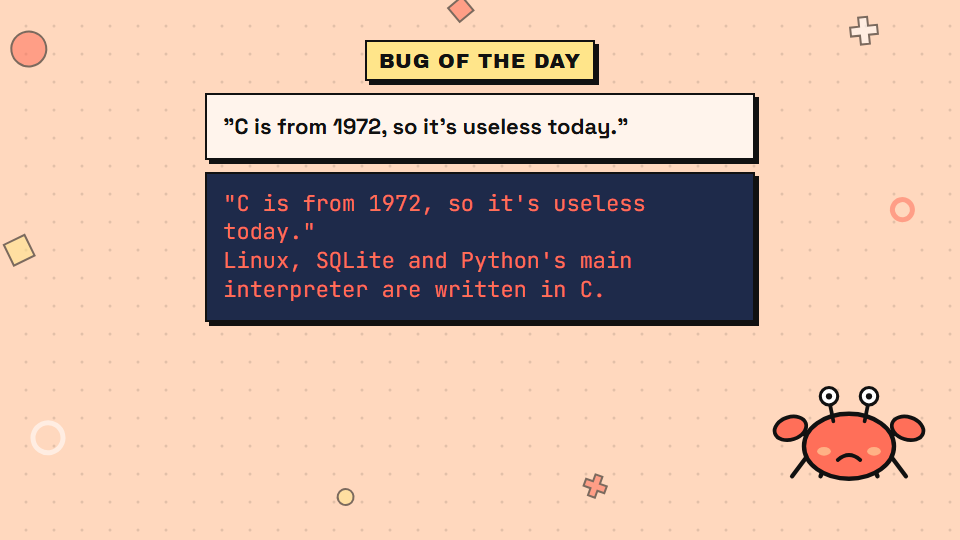
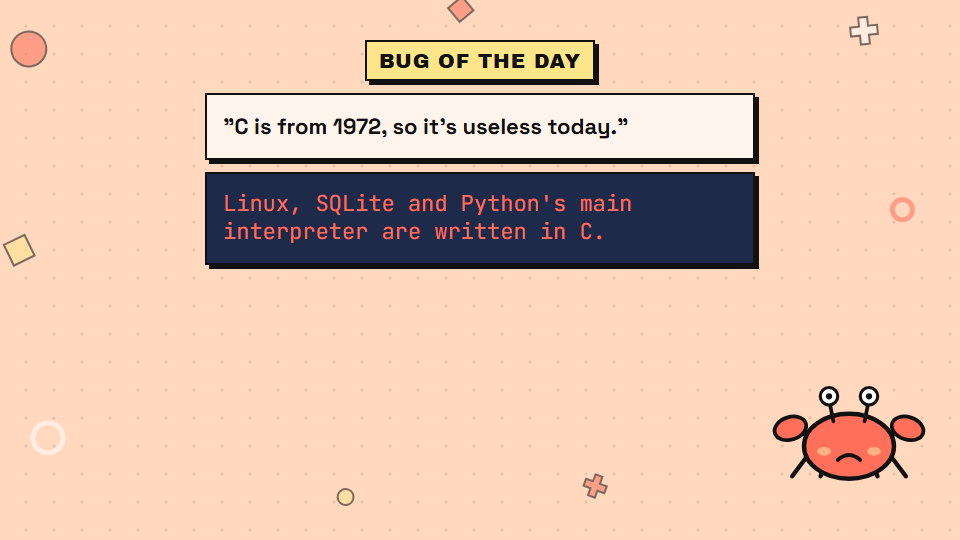
docs: fix4 report section 13 (bug code window vs culprit line, report only) and the EP2 still

Changed region(s): [[0.1875, 0.4741, 0.8125, 0.6222], [0.2188, 0.3556, 0.6875, 0.4444]]

diff --git a/docs/fix4-report.md b/docs/fix4-report.md
@@ -231,7 +231,7 @@ Nothing was re-rendered. Which episodes pick this up is for you to say. Takeover
 | Rule | Shows | Episodes that use it |
 |---|---|---|
 | diagnostic | the `file:line:col: error/warning: text` line + the echoed source line (a bare heading like "GCC error:" no longer counts) | EP1, 4, 6–12, 15, 20, 22–24, 28, 34–37, 39, 44, 46, 49, 51–58, 60–63, 68, 77, 81, 82, 86 (EP36 changed) |
-| myth | a quoted claim + the first numbered proof | EP2 (changed) |
+| myth | the first numbered proof; the quoted claim is added above it only if the code card does not already show it (compared after normalising quotes) | EP2 (changed) |
 | output | the last two lines of the program-output block, skipping shell commands and prose lead-ins | the rest; EP5 changed |
 | crash | prose-only text that names a crash: that message | EP59, 65, 69, 79 (changed) |
 | override | hand-written table `src/lib/bugOverrides.ts` | EP67, EP73 (changed) |
@@ -243,7 +243,7 @@ EP1–19: EP36, 59, 65, 67, 69, 73, 79; none are in EP41–50. Nothing is flagge
 
 | Episode | Panel text | Still |
 |---|---|---|
-| EP2 s8 | the myth + first proof | ![](fix4/bugpanel-ep2.png) |
+| EP2 s8 | only the proof line (the claim is already in the card above) | ![](fix4/bugpanel-ep2.png) |
 | EP5 s9 | `Namaskar, Goa!` (the old exe's wrong output) | ![](fix4/bugpanel-ep5.png) |
 | EP36 | the real GCC error + source line (was "GCC error:") | ![](fix4/bugpanel-ep36.png) |
 | EP59 | `Segmentation fault` | ![](fix4/bugpanel-ep59.png) |
@@ -253,6 +253,26 @@ EP1–19: EP36, 59, 65, 67, 69, 73, 79; none are in EP41–50. Nothing is flagge
 | EP73 | override: `$ ./program`, blinking cursor, `^C`, caption "no output, program hangs" (cursor is in its "on" half in this frame) | ![](fix4/bugpanel-ep73.png) |
 | EP79 | `Segmentation fault` | ![](fix4/bugpanel-ep79.png) |
 
-Two things seen in the stills: in EP2 the quoted myth appears twice (the code card above already shows it; the panel repeats it before the proof),
-and the EP73 caption was first drawn in ink on the dark-blue background and was unreadable; it now uses the readable colour for the scene background
-(fixed in the branch).
+Two things seen in the stills: in EP2 the quoted myth appeared twice, so the rule now drops the claim when the code card already shows it (still re-rendered above),
+and the EP73 caption was first drawn in ink on the dark-blue background and was unreadable; it now uses the readable colour for the scene background.
+
+## 13. Bug of the Day code window: does it show the culprit? (report only, nothing changed)
+
+**How the window is chosen.** `BugOfTheDay` draws the wrong code in `CodeBlock` with `maxHeight 410`, font 40, width 1100, and passes no `highlightLine` and no `visibleChars`.
+The panel is capped to `floor((410 − chrome) / row height)` rows, which is 5 rows (a wrapped line takes 2 rows, so sometimes only 3–4 lines). With nothing to follow, the panel
+scrolls to the end, so the window is always **the last rows of the file**, snapped to whole lines. The fixed code gets the same window. The window never looks at where the bug is.
+
+`node scripts/bug_windows.mts` (pure Node, reads `episodes/*.json` and `src/lib/codeLayout.ts`) mirrors that rule for all 86 episodes and checks the window against the bug's line.
+The line is the compiler's own line when the error text has `file:LINE:col: error|warning` and the echoed source matches the code, otherwise the line(s) that differ from the fix
+(for a pure insertion, the lines around the gap; for a short fragment fix, the wrong line sharing the most identifiers with the fragment). It is a heuristic; the cases below were spot-checked.
+
+- **Wrong-code window does not contain the culprit: 35 episodes** — EP20, 22, 23, 24, 27, 30, 33, 34, 35, 37, 39, 42, 43, 44, 45, 46, 47, 49, 50, 57, 62, 63, 67, 69, 70, 71, 73, 74, 76, 77, 78, 79, 82, 84, 85.
+  Checked by hand: EP67 (culprit line 10, the `realloc` line; window 13–17), EP69 (the `fopen` result is used at lines 4–6; window 7–11), EP43 (the unsorted array is line 4; window 19–22).
+- **Culprit not decidable by the script: 3** (no compiler line, no matching line) — EP5, EP25, EP83.
+- **Wrong slot is prose, so there is no window: 2** — EP2, EP3.
+- **Fixed-code window does not contain a changed line: 18** — EP10, 20, 24, 30, 34, 35, 36, 37, 39, 40, 49, 69, 71, 75, 76, 78, 84, 85.
+- The other 45 episodes show the culprit.
+
+Of the 35, 19 are in EP20–50 (EP20, 22, 23, 24, 27, 30, 33, 34, 35, 37, 39, 42–47, 49, 50), and 8 of those (EP42–47, 49, 50) are in the EP41–50 4K masters already rendered.
+**EP1–19: no wrong-code window misses its culprit.** EP5 is undecidable by the script, EP2 and EP3 have no code window, and EP10's fixed-code window (4–8) does not show the changed line 6.
+The window logic is unchanged. A fix would be to centre the window on the culprit (pass it as `highlightLine`) or show more rows.
